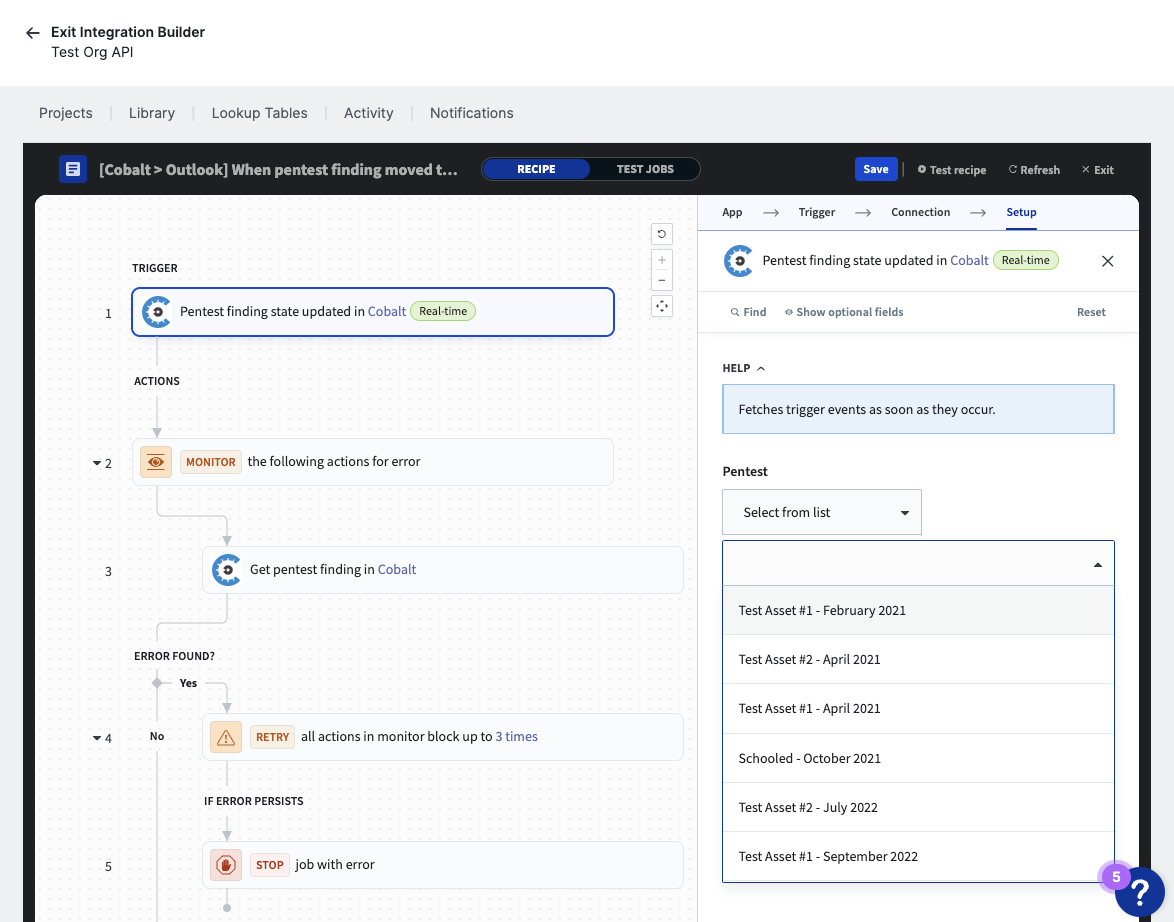
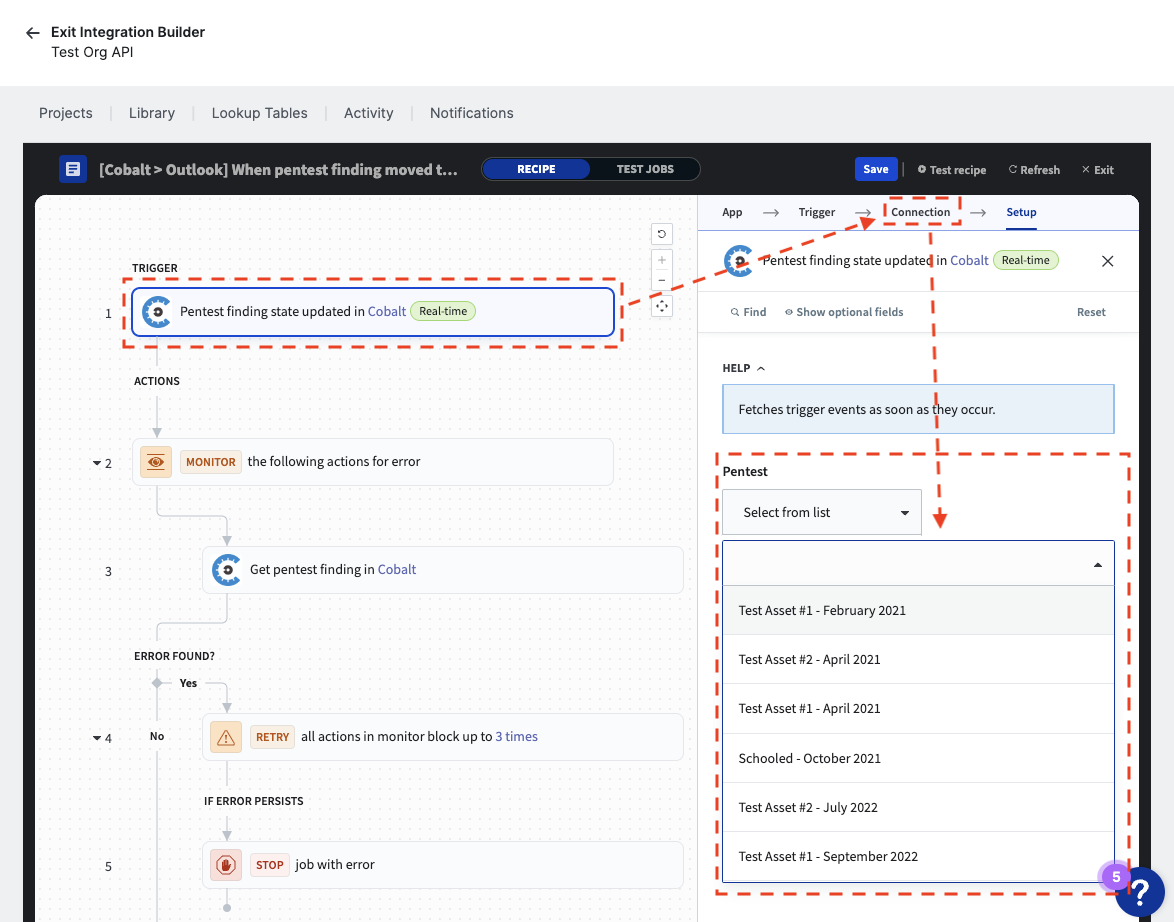
Add recipe customization steps

diff --git a/content/en/Integrations/IntegrationBuilder/findings-outlook-notifications.md b/content/en/Integrations/IntegrationBuilder/findings-outlook-notifications.md
@@ -28,7 +28,7 @@ Find out how to create a Cobalt Connector [here](integrations/integrationbuilder
 The following is a quick guide on how to create a Workato connection for Microsoft Outlook.
 In case you're looking for a more comprehensive and general guide on how to manage connections, check [here](integrations/integrationbuilder/connect-your-applications/).
 
-Go to the Integration Builder > Projects. Select or create a project on the left-side of the page. Then click on the "Create" button on the top-right and choose the "Connection" option.
+Go to the `Integration Builder` > `Projects`. Select or create a project on the left-side of the page. Then click on the "Create" button on the top-right and choose the "Connection" option.
 ![Create a connection for your project](/integrations/integration_builder/findings_outlook_notifications/create_connection_step1.png "Create a connection for your project")
 
 A "New Connection" page will show up. Look for "Outlook" and select the corresponding tile. You can optionally use the search field to quickly find the connection.
@@ -42,13 +42,26 @@ Once signed in with Microsoft, you should get a confirmation that the connection
 
 ### 3. Find and select a recipe
 
-Go to the Integration Builder > Library and look for Outlook.
-![Add filters](/integrations/integration_builder/findings_outlook_notifications/configure_outlook_notification_step1.png "Add filters")
+Go to the `Integration Builder` > `Library` and select Outlook. 
+![Outlook tile](/integrations/integration_builder/findings_outlook_notifications/configure_outlook_notification_step1.png "Outlook tile")
 
 Choose between both options:
 A. [Cobalt > Outlook] When pentest finding moved to Pending Fix, send email notification
 B. [Cobalt > Outlook] When DAST finding is detected, send email notification
+For the purpose of this guide, we'll go with "When pentest finding moved to Pending Fix, send email notifications". The process is very similar for DAST findings, so these steps should help you out in that case as well.
+![Outlook recipes](/integrations/integration_builder/findings_outlook_notifications/configure_outlook_notification_step2.png "Outlook recipes")
 
-For the sake of this guide, we'll assume you're interested in getting notified every time there's a new finding on a pentest. The process is very similar for DAST findings, so this should help you out in that case as well.
+Click on "Use this recipe".
+![Use Outlook recipe](/integrations/integration_builder/findings_outlook_notifications/configure_outlook_notification_step3.png "Use Outlook recipe")
 
-![Add filters](/integrations/integration_builder/findings_outlook_notifications/configure_outlook_notification_step1.png "Add filters")
+You will be prompted to copy the recipe. Choose a preferred location and click "Copy and save".
+![Copy Outlook recipe](/integrations/integration_builder/findings_outlook_notifications/configure_outlook_notification_step4.png "Copy Outlook recipe")
+
+Select the Cobalt trigger at the top of the flow diagram, in order to select the already created Cobalt Connector you want to use. In the sidebar you will be able to select which pentest you want the recipe to listen for findings from. Choose whichever you want to configure the recipe for.
+![Configure Cobalt connection](/integrations/integration_builder/findings_outlook_notifications/configure_outlook_notification_step5.png "Configure Cobalt connection")
+
+Select "Send email from Outlook Mail" at the bottom of the flow diagram. At the top of the page choose "Connection" to select the previously created Outlook connection. Then provide an email in the "To" field. You can optionally customize To, BCC, Subject and Message, among others as needed.
+![Configure Outlook connection](/integrations/integration_builder/findings_outlook_notifications/configure_outlook_notification_step6.png "Configure Outlook connection")
+
+Once ready, click "Save" at the top-right of the page.
+![Save recipe](/integrations/integration_builder/findings_outlook_notifications/configure_outlook_notification_step7.png "Save recipe")
